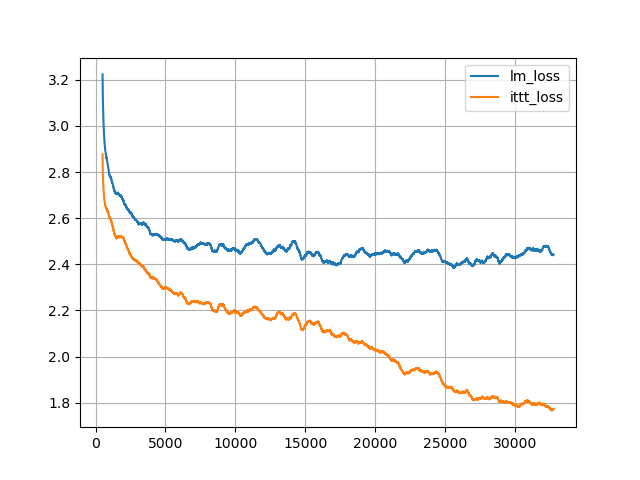
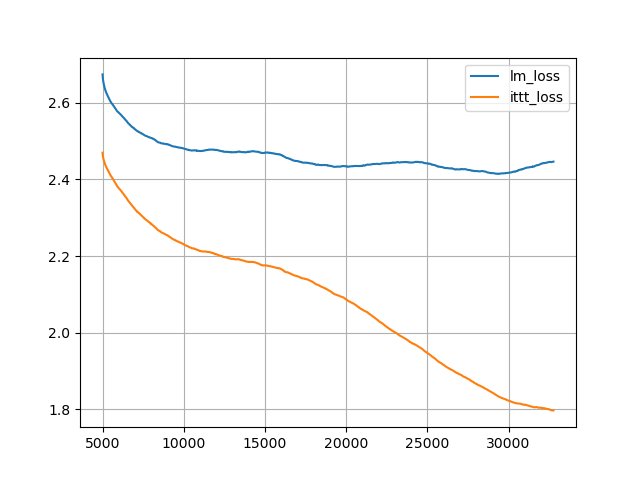
evaluationsss

diff --git a/src/compare_ittt.py b/src/compare_ittt.py
@@ -12,6 +12,7 @@ from models import load_checkpoint
 from models.llama import LlamaForCausalLM
 from models.ittt import ItttModel
 from collators.simple import SimpleCollator
+from collators.tokenize import TokenizeCollator
 import utils.constants as constants
 from utils.loss_utils import lm_loss_fn
 
@@ -24,10 +25,15 @@ LM_STEP = 2000
 ITTT_URL = 'aklein4/iTTT-TPU_alpha-1b'
 ITTT_STEP = 500
 
-DATA_URL = "aklein4/longattn-SmolLM2"
+DATA_URL = "Geralt-Targaryen/books3"
+TOKENIZER_URL = os.path.join(constants.LOCAL_DATA_PATH, "tokenizer")
 
-NUM_EXAMPLES = 512
-BS = 4
+NUM_EXAMPLES = 64
+BS = 2
+
+SEQUENCE_LENGTH = 1024 * 128
+
+PREFIX = "extrapolate_"
 
 
 def main():
@@ -37,7 +43,7 @@ def main():
     loader = torch.utils.data.DataLoader(
         data,
         batch_size=BS,
-        collate_fn=SimpleCollator(),
+        collate_fn=TokenizeCollator(TOKENIZER_URL, SEQUENCE_LENGTH),
     )
 
     print("Loading model...")
@@ -66,7 +72,7 @@ def main():
             input_ids, verbose=True,
         )   
         loss = lm_loss_fn(
-            logits, input_ids,
+            logits, input_ids.to(logits.device),
             shift_logits=False,
             ignore_index=ittt_model.config.pad_token_id,
             reduction='none',
@@ -77,17 +83,31 @@ def main():
         with torch.no_grad():
             with torch.autocast(str(constants.DEVICE), torch.bfloat16):
 
-                logits = lm_model.forward(
+                states = lm_model.forward(
                     input_ids,
-                    shift_states=True,
-                )[0]
+                    return_states=True,
+                    logits_to_keep=slice(0, 1),
+                )[-1]
+                states = lm_model.model.norm(states)
 
-            loss = lm_loss_fn(
-                logits, input_ids,
-                shift_logits=False,
-                ignore_index=lm_model.config.pad_token_id,
-                reduction='none',
-            )
+                states = states[:, :-1].split(1024, dim=1)
+                labels = input_ids[:, 1:].split(1024, dim=1)
+
+                loss = []
+                for s, l in tqdm(zip(states, labels), total=len(states), desc="Processing LM Chunks", leave=False):
+
+                    logits = lm_model.lm_head(s).float()
+
+                    curr_loss = lm_loss_fn(
+                        logits, l,
+                        shift_logits=False,
+                        shift_labels=False,
+                        ignore_index=lm_model.config.pad_token_id,
+                        reduction='none',
+                    )
+                    loss.append(curr_loss)
+                
+                loss = torch.cat(loss, dim=1)
 
         lm_losses.append(loss.cpu())
         del logits
@@ -98,13 +118,13 @@ def main():
     lm_losses = torch.cat(lm_losses, dim=0)
     torch.save(
         lm_losses,
-        os.path.join(constants.LOCAL_DATA_PATH, "lm_losses_for_comparison.pt")
+        os.path.join(constants.LOCAL_DATA_PATH, PREFIX+"lm_losses_for_comparison.pt")
     )
     
     ittt_losses = torch.cat(ittt_losses, dim=0)
     torch.save(
         ittt_losses,
-        os.path.join(constants.LOCAL_DATA_PATH, "ittt_losses_for_comparison.pt")
+        os.path.join(constants.LOCAL_DATA_PATH, PREFIX+"ittt_losses_for_comparison.pt")
     )
 
 
@@ -112,17 +132,19 @@ def nan_mean(x):
     mask = np.isfinite(x)
     s = mask.sum(0)
     x = np.where(mask, x, np.zeros_like(x))
-    return x.sum(0) / s
+    return x.sum(0) / (s + 1e-7)
 
 
 def analyze_results():
 
-    lm_losses = torch.load(os.path.join(constants.LOCAL_DATA_PATH, "lm_losses_for_comparison.pt")).float().numpy()
-    ittt_losses = torch.load(os.path.join(constants.LOCAL_DATA_PATH, "ittt_losses_for_comparison.pt")).float().numpy()
+    lm_losses = torch.load(os.path.join(constants.LOCAL_DATA_PATH, PREFIX+"lm_losses_for_comparison.pt")).float().numpy()
+    ittt_losses = torch.load(os.path.join(constants.LOCAL_DATA_PATH, PREFIX+"ittt_losses_for_comparison.pt")).float().numpy()
+    norm_ittt_losses = torch.load(os.path.join(constants.LOCAL_DATA_PATH, "norm_"+PREFIX+"ittt_losses_for_comparison.pt")).float().numpy()
 
     df = pd.DataFrame({
         "lm_loss": nan_mean(lm_losses),
         "ittt_loss": nan_mean(ittt_losses),
+        "norm_ittt_loss": nan_mean(norm_ittt_losses),
     })
 
     print("\n === Average Losses === ")
@@ -133,13 +155,43 @@ def analyze_results():
     for col in df.columns:
 
         x = np.arange(len(df[col]))
-        y_running = df[col].rolling(window=500)
+        y_running = df[col].rolling(window=2000)
         
         plt.plot(x, y_running.mean(), label=col)
     
     plt.legend()
     plt.grid()
-    plt.savefig("loss_comparison.png")
+
+    plt.title("iTTT Loss Comparison")
+    plt.xlabel("Token Position")
+    plt.ylabel("Loss (log perplexity)")
+
+    plt.savefig(PREFIX+"loss_comparison.png")
+    plt.clf()
+    
+    diff = ittt_losses - lm_losses
+    norm_diff = norm_ittt_losses - lm_losses
+
+    df = pd.DataFrame({
+        "ittt_diff": nan_mean(diff),
+        "norm_ittt_diff": nan_mean(norm_diff),
+    })
+
+    for col in df.columns:
+        
+        x = np.arange(len(df[col]))
+        y_running = df[col].rolling(window=2000)
+        
+        plt.plot(x, y_running.mean(), label=col)
+    
+    plt.legend()
+    plt.grid()
+
+    plt.title("iTTT Loss Delta")
+    plt.xlabel("Token Position")
+    plt.ylabel("Loss difference with full attn.")
+
+    plt.savefig(PREFIX+"loss_diff_comparison.png")
 
 
 if __name__ == "__main__":

diff --git a/src/models/norm_ittt.py b/src/models/norm_ittt.py
@@ -45,15 +45,12 @@ class ItttFunction(torch.autograd.Function):
 
         x, momentum, state = ctx.saved_tensors
         mod: ItttLinear = ctx.mod
-        g = grad
 
-        if mod.normalize_vectors:
-            
-            x: torch.FloatTensor = x.float()
-            g = g.float()
+        x: torch.FloatTensor = x.float()
+        g = grad.float()
 
-            x = F.rms_norm(x, [x.shape[-1]], eps=mod.eps) # [b, s, i]
-            g = F.normalize(g, dim=-2, eps=mod.eps) * math.sqrt(x.shape[-2])  # [b, s, r]
+        x = F.rms_norm(x, [x.shape[-1]], eps=mod.eps) # [b, s, i]
+        g = F.normalize(g, dim=-2, eps=mod.eps) * math.sqrt(x.shape[-2])  # [b, s, r]
 
         x = x.to(mod.momentum_dtype)
         g = g.to(mod.momentum_dtype)
@@ -105,8 +102,6 @@ class ItttLinear(nn.Module):
         self.momentum_dtype = getattr(torch, config.momentum_dtype)
         self.state_dtype = getattr(torch, config.state_dtype)
 
-        self.normalize_vectors = config.get("normalize_vectors", True)
-
         # save linear
         self.linear = linear
         
@@ -114,8 +109,8 @@ class ItttLinear(nn.Module):
         self.log_lr = nn.Parameter(
             torch.zeros(self.rank, self.in_features)
         )
-        self.base_state_proj = nn.Linear(
-            self.in_features, self.rank, bias=False
+        self.base_state = nn.Parameter(
+            torch.randn(self.rank, self.in_features) * math.sqrt(1 / self.in_features)
         )
         self.out_proj = nn.Linear(
             self.rank, self.out_features, bias=False
@@ -126,7 +121,6 @@ class ItttLinear(nn.Module):
         self.momentum: nn.Buffer
 
         # weight initialization
-        self.base_state_proj.weight.data.zero_()
         self.out_proj.weight.data.normal_(
             std=config.initializer_range
         )
@@ -150,7 +144,7 @@ class ItttLinear(nn.Module):
 
     def get_lr(self):
         return (
-            self.base_lr *
+            self.base_lr * math.sqrt(max(self.in_features, self.rank)) * (1 / math.sqrt(self.in_features)) *
             torch.exp(self.log_lr * self.scalar_scaler)
         )
 
@@ -164,13 +158,14 @@ class ItttLinear(nn.Module):
 
         assert x.ndim == 3, "x must be 3D (batch, seq_len, dim)"
 
-        lr = self.get_lr()
-        s = lr[None] * self.state.detach()
+        s = (
+            self.base_state[None] +
+            self.get_lr() * self.state.detach()
+        )
+        s = F.rms_norm(s, s.shape[-2:], eps=self.eps) / math.sqrt(self.in_features)
 
         z = torch.einsum("boi,bsi->bso", s, x)
         z = ItttFunction.apply(x, z, self, self.momentum, self.state)
-
-        z = z + self.base_state_proj(x)
 
         y_lora = self.out_proj(z)
         y_base = self.linear(x)
@@ -232,7 +227,7 @@ class ItttLinear(nn.Module):
         self.momentum.grad.zero_()
 
 
-class ItttModel(LlamaForCausalLM):
+class NormItttModel(LlamaForCausalLM):
 
 
     def __init__(self, config):

diff --git a/src/models/llama.py b/src/models/llama.py
@@ -351,6 +351,7 @@ class LlamaModel(nn.Module):
 
     def __init__(self, config: DictConfig):
         super().__init__()
+        self.config = config
         self.vocab_size = config.vocab_size
         self.embed_tokens = nn.Embedding(config.vocab_size, config.hidden_size)
 
@@ -404,13 +405,20 @@ class LlamaModel(nn.Module):
             ).unsqueeze(0).float()
 
         # Create a causal attention mask
-        causal_mask = torch.triu(
-            torch.full((seq_length, seq_length), float("-inf"), device=inputs_embeds.device),
-            diagonal=1,
-        )
-        causal_mask = causal_mask.unsqueeze(0).unsqueeze(0)  # Add batch and head dimension
-        if attention_mask is not None:
-            causal_mask = causal_mask * attention_mask[:, None, None, :]
+        if "lash" in self.config.attention_kernel:
+            assert attention_mask is None, "Custom attention mask not compatible with flash attention"
+
+            # dummy value
+            causal_mask = torch.zeros_like(position_ids)
+
+        else:
+            causal_mask = torch.triu(
+                torch.full((seq_length, seq_length), float("-inf"), device=inputs_embeds.device),
+                diagonal=1,
+            )
+            causal_mask = causal_mask.unsqueeze(0).unsqueeze(0)  # Add batch and head dimension
+            if attention_mask is not None:
+                causal_mask = causal_mask * attention_mask[:, None, None, :]
 
         # create position embeddings to be shared across the decoder layers
         position_embeddings = self.rotary_emb(inputs_embeds, position_ids)
